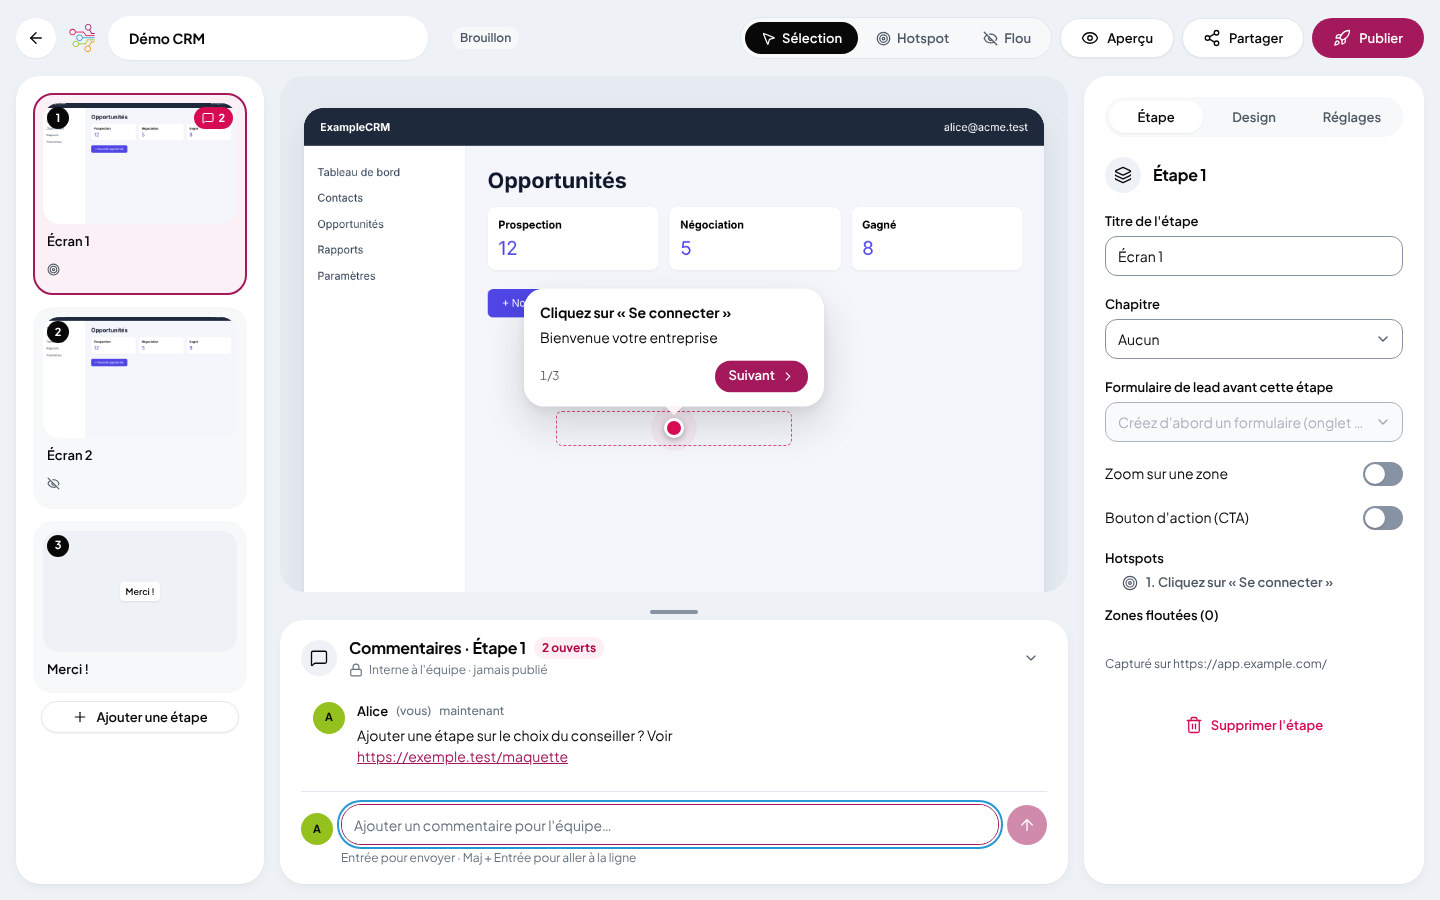
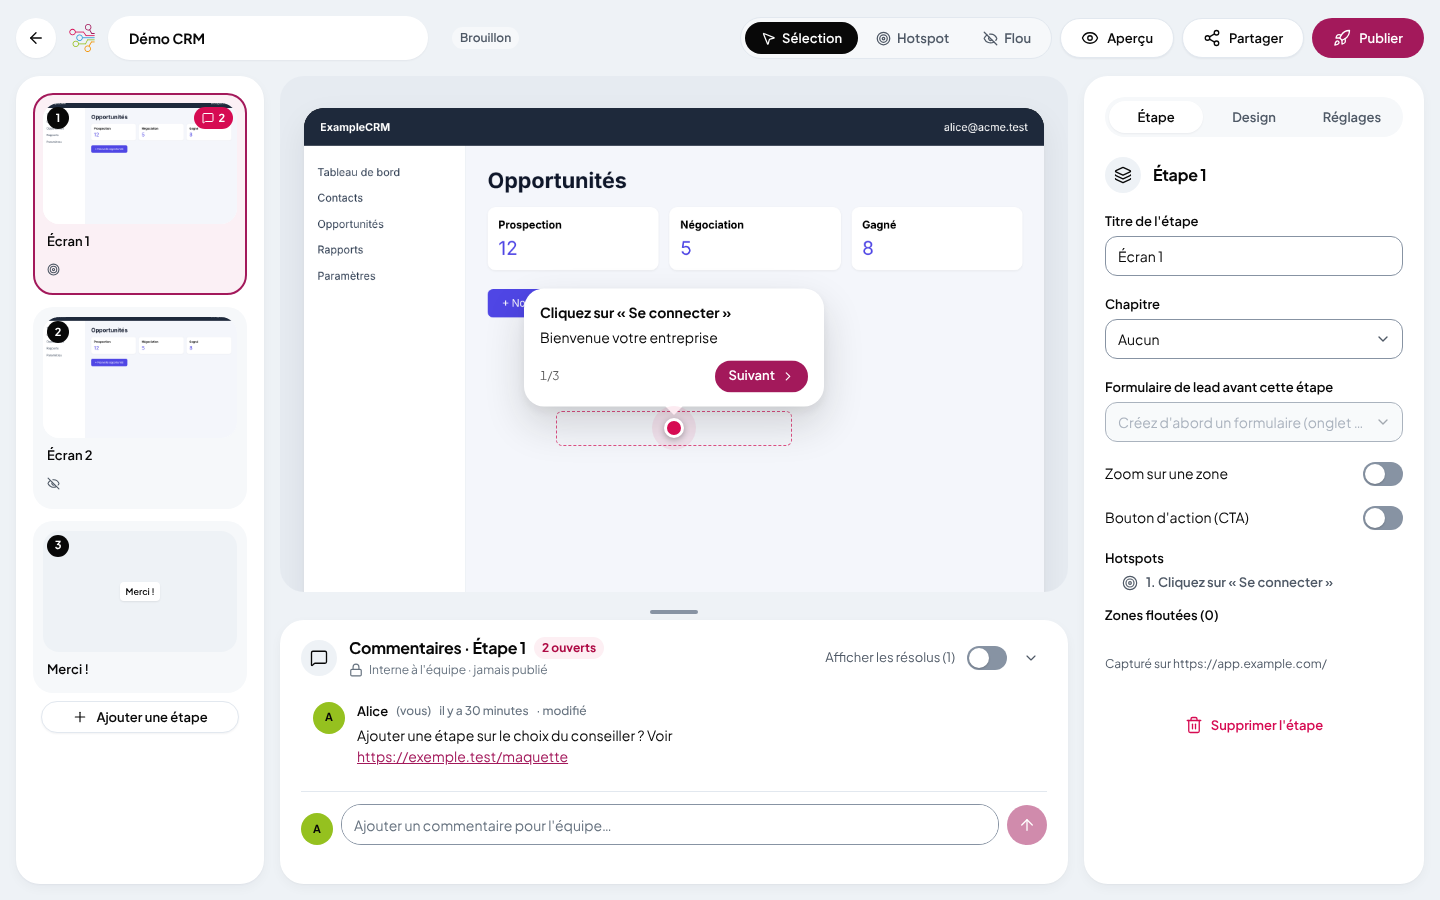
test(editor): captures des états du panneau Commentaires (25b à 25i, clair et sombre) + mise en page mobile
- e2e/comments-screens.cjs : vide, liste, filtre résolus, modification, replié, tout résolu,
  erreur d'envoi, lecteur, mobile — en clair et en sombre
- Mobile : la page défile (pas la liste), actions sous le texte, en-tête sur deux lignes
- Faux Supabase : membres supplémentaires pour list_members

Claude-Session: https://claude.ai/code/session_016yn81ZxTg2ruYKp45zgJVh

diff --git a/apps/web/src/pages/editor/editor.css b/apps/web/src/pages/editor/editor.css
@@ -1253,3 +1253,25 @@
 .editor-center {
   justify-content: safe center;
 }
+/* Mobile : la page défile (pas la liste), actions sous le texte, saisie collée en bas de l'écran */
+.cm--mobile .cm-card {
+  flex: none;
+}
+.cm--mobile .cm-scroll,
+.cm--mobile .cm-list {
+  flex: none;
+  overflow: visible;
+}
+.cm--mobile .cm-item {
+  grid-template-columns: 32px minmax(0, 1fr);
+}
+.cm--mobile .cm-actions {
+  grid-column: 2;
+  opacity: 1;
+  flex-wrap: wrap;
+}
+.cm--mobile .cm-head__end {
+  margin-left: 0;
+  width: 100%;
+  justify-content: flex-start;
+}
